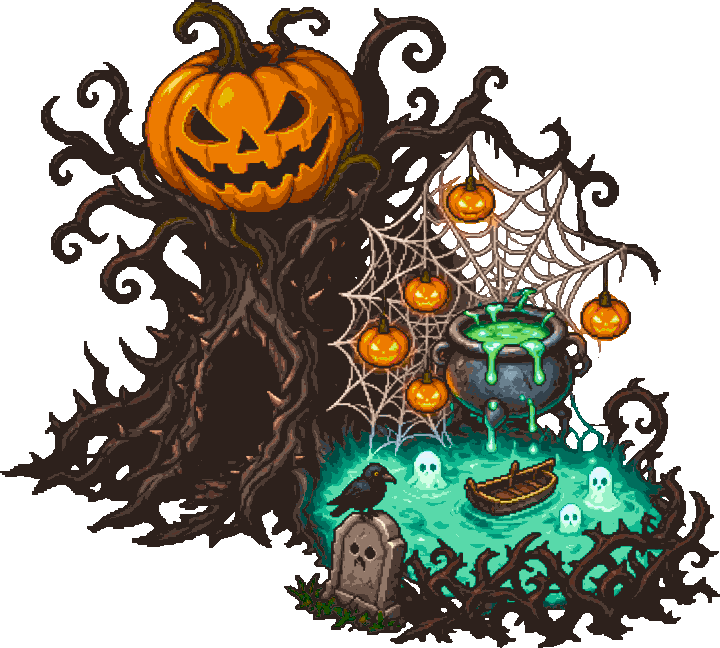
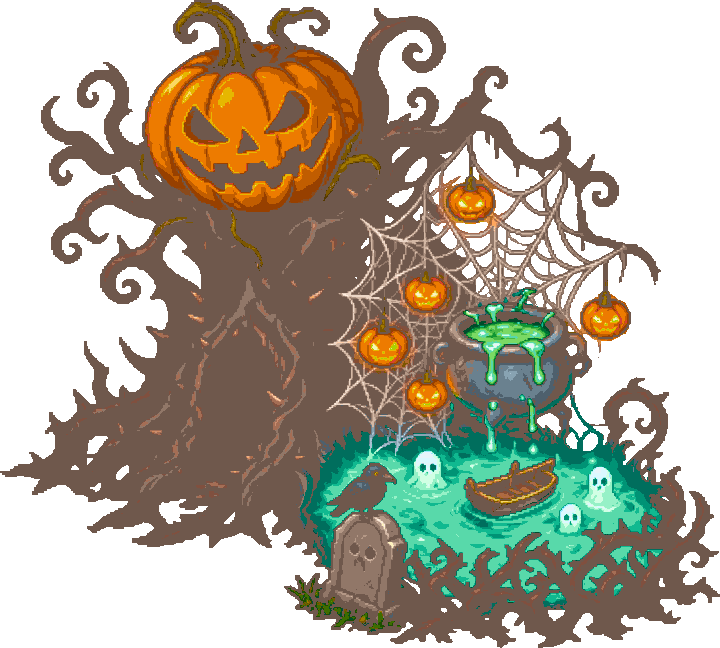
Game build 19: night mode off, props blend into the painted scene
- Time of day is fixed to daytime on the farm, kitchen and diner (todPhase returns 'day').
- Props (scarecrow, house, fountain, mailbox) get a scene grade: colors darker than mid
  lightness are lifted and pulled toward warm brown, so a dark AI asset no longer reads
  as a black cutout on the bright painting. Same numbers in tools/scene_grade.py and the
  in-game upload pipeline (sceneGradeData); the two built-in prop skins are regraded.
- Each prop gets a soft contact shadow sized from the opaque width of its bottom 20%.
- ART.md: measured why the Halloween house stood out, plus rules for future props.

Claude-Session: https://claude.ai/code/session_01BeUTwmxL2Vao9DPVP1E5Mn

diff --git a/game/index.html b/game/index.html
@@ -1255,7 +1255,8 @@ const DD = { t: .5, tt: .5, face: 1, hop: 0, next: 0 };
 const HEN = { x: 48, y: 151, dir: -1, wait: 0 };   // 母鸡在菜地左下的草地上走，窝在旁边；y 是脚底
 const PT = [];
 let farmCv, sel = -1, selT = 0, TAPLBL = null, CHAT = null, chatNext = 0;
-function todPhase(d = new Date()) { const h = d.getHours() + d.getMinutes() / 60; return h < 5 || h >= 20 ? 'night' : h < 7 ? 'dawn' : h < 17 ? 'day' : 'dusk'; }
+// 夜晚模式已关掉（不要晚上变暗）：农场、厨房、小馆永远按白天画
+function todPhase() { return 'day'; }
 const SKY = { day: [PAL.s2, PAL.s1, PAL.s0], dawn: [PAL.s3, PAL.p0, PAL.y0], dusk: [PAL.p2, PAL.r0, PAL.y2], night: [PAL.n7, PAL.n6, PAL.s5] };
 const NIGHT_TINT = { night: 'rgba(32,25,79,.5)', dusk: 'rgba(75,43,117,.2)', dawn: 'rgba(0,102,138,.16)' };   // 色卡：蓝-1、紫-2、天蓝-3
 const pathAt = t => [60 + t * 125, 167 + Math.sin(t * Math.PI * 2) * 2];   // 豆豆在菜地下面的沙土路上走来走去
@@ -1373,6 +1374,27 @@ function hdOutline(c, diag = false) {
   }
   palSnapData(d);
   g.putImageData(im, 0, 0); return c;
+}
+// 物件融进场景（和 tools/scene_grade.py 同一组数字，两边一起改）：底图最暗也只是中等亮度，物件的大片暗部和黑描边会像剪影，
+// 所以比 pivot 暗的颜色往上提、往暖棕色靠，越暗提得越多，亮部基本不动
+const SG = { pivot: .62, lift: .5, tint: .45, chroma: 1.15, a: .035, b: .06 };
+function sceneGradeData(d) {
+  const memo = new Map(), lin = v => (v /= 255) <= .04045 ? v / 12.92 : ((v + .055) / 1.055) ** 2.4, enc = v => Math.round(255 * Math.min(1, Math.max(0, v <= .0031308 ? v * 12.92 : 1.055 * v ** (1 / 2.4) - .055)));
+  for (let i = 0; i < d.length; i += 4) {
+    if (!d[i + 3]) continue;
+    const key = (d[i] << 16) | (d[i + 1] << 8) | d[i + 2]; let o = memo.get(key);
+    if (!o) {
+      const r = lin(d[i]), g = lin(d[i + 1]), b = lin(d[i + 2]);
+      const l = Math.cbrt(.4122214708 * r + .5363325363 * g + .0514459929 * b), m = Math.cbrt(.2119034982 * r + .6806995451 * g + .1073969566 * b), s = Math.cbrt(.0883024619 * r + .2817188376 * g + .6299787005 * b);
+      let L = .2104542553 * l + .7936177850 * m - .0040720468 * s, A = 1.9779984951 * l - 2.4285922050 * m + .4505937099 * s, B = .0259040371 * l + .7827717662 * m - .8086757660 * s;
+      const dk = Math.max(0, SG.pivot - L), w = dk / SG.pivot * SG.tint;
+      L += SG.lift * dk; A *= SG.chroma; B *= SG.chroma; A += (SG.a - A) * w; B += (SG.b - B) * w;
+      const l2 = (L + .3963377774 * A + .2158037573 * B) ** 3, m2 = (L - .1055613458 * A - .0638541728 * B) ** 3, s2 = (L - .0894841775 * A - 1.2914855480 * B) ** 3;
+      o = [enc(4.0767416621 * l2 - 3.3077115913 * m2 + .2309699292 * s2), enc(-1.2684380046 * l2 + 2.6097574011 * m2 - .3413193965 * s2), enc(-.0041960863 * l2 - .7034186147 * m2 + 1.7076147010 * s2)];
+      memo.set(key, o);
+    }
+    d[i] = o[0]; d[i + 1] = o[1]; d[i + 2] = o[2];
+  }
 }
 // 整张图吸附到色卡（高清精灵的最后一步：受光背光、放大插出来的颜色都收回色卡里）
 const PSNAP = new Map(), PAL_RGB = PALETTE.map(hexRGB);
@@ -1558,7 +1580,7 @@ function cropArtKey(id) {
   const sk = skinOn('crop:' + id); if (sk && FS.textures.exists(skinKey(sk))) return skinKey(sk);
   return CROPS[id].art && FS.textures.exists('art:' + id) ? 'art:' + id : null;
 }
-// 画面顺序：底图 → 开垦的地 → 阴影 → 物件、作物、母鸡（按脚底 y 排前后）→ 特效 → 夜色 → 灯光、豆豆 → 气泡名牌 → 拖动箭头
+// 画面顺序：底图 → 开垦的地 → 阴影 → 物件、作物、母鸡（按脚底 y 排前后）→ 特效 → 豆豆 → 气泡名牌 → 拖动箭头（夜晚模式已关掉）
 function farmSync(t) {
   if (!S) return;
   const W = FARM.w, ox = FARM.ox, ph = todPhase(new Date()), night = ph === 'night' || ph === 'dusk', now = performance.now();
@@ -1592,7 +1614,9 @@ function farmSync(t) {
   // 装扮物件（稻草人、房子……）
   SKIN_SLOTS.forEach(sl => {
     if (sl.kind !== 'prop') return; const id = skinOn(sl.id); if (!id || !FS.textures.exists(skinKey(id))) return;
-    const q = skinPlace(sl, id); FP.img(skinKey(id)).setOrigin(.5, 1).setPosition(q.x, q.y).setScale(q.k / IMG_PX).setDepth(DEPTH.world + q.y);
+    const q = skinPlace(sl, id), w = SKIN_IMG[id].naturalWidth / IMG_PX * q.k, [fc, fw] = skinFoot(id), rx = Math.max(2, fw * w * .5), cx = q.x - w / 2 + fc * w;
+    for (const [k, al] of [[1.2, .08], [1, .1], [.75, .1]]) gs.fillStyle(0x2d211c, al).fillEllipse(cx, q.y - rx * .08, rx * 2 * k, rx * .36 * k);   // 脚底的软影子：三层叠出虚边，物件才「站」在地上
+    FP.img(skinKey(id)).setOrigin(.5, 1).setPosition(q.x, q.y).setScale(q.k / IMG_PX).setDepth(DEPTH.world + q.y);
     if (FARM.adjust && FARM.adjust.slot === sl.id) { const b = skinBounds(sl, id); if (b) gx.lineStyle(1, 0xfad864, .5 + .4 * Math.sin(t / 200)).strokeRect(b.x, b.y, b.w, b.h); }
   });
   // 鸡窝、鸡蛋、母鸡
@@ -1681,8 +1705,8 @@ const SKIN_SLOTS = [
 ];
 // 自带的装扮（art/skins/，用 tools/skin_prep.py 处理过）；上传的装扮也加进这个表（up: true）
 const SKINS = [
-  { id: 'xmas', slot: 'scarecrow', zh: '圣诞稻草人', src: 'art/skins/scarecrow-xmas.png' },
-  { id: 'halloween', slot: 'house', zh: '万圣节树屋', src: 'art/skins/house-halloween.png' },
+  { id: 'xmas', slot: 'scarecrow', zh: '圣诞稻草人', src: 'art/skins/scarecrow-xmas.png', foot: [.529, .558] },
+  { id: 'halloween', slot: 'house', zh: '万圣节树屋', src: 'art/skins/house-halloween.png', foot: [.56, .878] },
   { id: 'spirit', slot: 'crop:pumpkin', zh: '南瓜精灵', src: 'art/skins/crop-pumpkin-spirit.png' },
 ];
 const SKIN_IMG = {};
@@ -1694,13 +1718,25 @@ const skinOn = slot => { const id = S && S.cfg.skins && S.cfg.skins[slot]; if (i
 function skinPlace(sl, id) { const p = (S.cfg.skinPos && S.cfg.skinPos[id]) || {}; return { x: (sl.anchor[0] + (p.dx || 0)) / IMG_PX, y: (sl.anchor[1] + (p.dy || 0)) / IMG_PX, k: p.s || 1 }; }
 // 点到的是不是装扮图里不透明的地方（透明的空隙点下去，算点到后面的东西）；读不了像素时（本地文件打开）按整个方框算
 const SKIN_ALPHA = {};
-function skinHit(id, u, v) {
+function skinAlpha(id) {
   const img = SKIN_IMG[id]; let a = SKIN_ALPHA[id];
   if (a === undefined) { try { const [c, g] = mk(img.naturalWidth, img.naturalHeight); g.drawImage(img, 0, 0); a = { w: c.width, h: c.height, d: g.getImageData(0, 0, c.width, c.height).data }; } catch (e) { a = null; } SKIN_ALPHA[id] = a; }
+  return a;
+}
+function skinHit(id, u, v) {
+  const a = skinAlpha(id);
   if (!a) return true;
   const x = Math.min(a.w - 1, Math.max(0, u * a.w | 0)), y = Math.min(a.h - 1, Math.max(0, v * a.h | 0));
   for (let dy = -6; dy <= 6; dy += 3) for (let dx = -6; dx <= 6; dx += 3) { const xx = x + dx, yy = y + dy; if (xx >= 0 && yy >= 0 && xx < a.w && yy < a.h && a.d[(yy * a.w + xx) * 4 + 3] > 0) return true; }   // 手指不准，周围几个像素也算
   return false;
+}
+// 脚底影子画多宽：图最下面 20% 里不透明的范围 [中心, 宽度]（占图宽的比例）；读不了像素时用 SKINS 里写好的
+const SKIN_FOOT = {};
+function skinFoot(id) {
+  if (SKIN_FOOT[id]) return SKIN_FOOT[id];
+  const a = skinAlpha(id), s = SKINS.find(x => x.id === id); let f = (s && s.foot) || [.5, .5];
+  if (a) { let x0 = a.w, x1 = -1; for (let y = Math.floor(a.h * .8); y < a.h; y++) for (let x = 0; x < a.w; x++) if (a.d[(y * a.w + x) * 4 + 3]) { if (x < x0) x0 = x; if (x > x1) x1 = x; } if (x1 >= 0) f = [(x0 + x1) / 2 / a.w, (x1 - x0) / a.w]; }
+  return SKIN_FOOT[id] = f;
 }
 function skinBounds(sl, id) { const img = SKIN_IMG[id]; if (!img || !img.naturalWidth) return null; const q = skinPlace(sl, id), w = img.naturalWidth / IMG_PX * q.k, h = img.naturalHeight / IMG_PX * q.k; return { x: q.x - w / 2, y: q.y - h, w, h, cx: q.x, top: q.y - h }; }
 const skinSrc = slot => { const id = skinOn(slot), s = id && SKINS.find(x => x.id === id); return s ? s.src || s.data : null; };
@@ -1714,7 +1750,7 @@ async function initSkins() {
   SKINS.forEach(loadSkinImg);
   (await skinDbAll()).forEach(r => { if (!SKINS.some(s => s.id === r.id)) { const s = { ...r, up: true }; SKINS.push(s); loadSkinImg(s); } });
 }
-// 上传的图片自动处理：没有透明背景就去掉四周的白底 → 去掉半透明淡雾 → 裁掉空白 → 按装扮位大小等比缩小 → 按色卡校色
+// 上传的图片自动处理：没有透明背景就去掉四周的白底 → 去掉半透明淡雾 → 裁掉空白 → 按装扮位大小等比缩小 →（物件）融进场景 → 按色卡校色
 async function processSkin(file, slot) {
   const url = URL.createObjectURL(file);
   try {
@@ -1737,6 +1773,7 @@ async function processSkin(file, slot) {
     while (sw / 2 >= tw) { const [c2, g2] = mk(Math.ceil(sw / 2), Math.ceil(sh / 2)); g2.imageSmoothingEnabled = true; g2.imageSmoothingQuality = 'high'; g2.drawImage(src, sx, sy, sw, sh, 0, 0, c2.width, c2.height); src = c2; sx = sy = 0; sw = c2.width; sh = c2.height; }   // 一次缩一半，缩小不糊
     const [out, go] = mk(tw, th); go.imageSmoothingEnabled = true; go.imageSmoothingQuality = 'high'; go.drawImage(src, sx, sy, sw, sh, 0, 0, tw, th);
     const od = go.getImageData(0, 0, tw, th); for (let i = 3; i < od.data.length; i += 4) od.data[i] = od.data[i] < 128 ? 0 : 255;
+    if (sl.kind === 'prop') sceneGradeData(od.data);   // 物件融进场景；作物不做
     palSnapData(od.data); go.putImageData(od, 0, 0);
     return out.toDataURL('image/png');
   } finally { URL.revokeObjectURL(url); }
@@ -2457,7 +2494,7 @@ function openSettings() {
 // ================= 版本、更新、存档码 =================
 // 每次发布把 BUILD 加一，同时改 game/version.json。打开游戏时去 GitHub 看最新版本号，有新的就问要不要更新；
 // 进度存在本机浏览器里，更新只换游戏本身，进度、金币、单词成绩都保留。
-const BUILD = 18, BUILD_DATE = '2026-10-31';
+const BUILD = 19, BUILD_DATE = '2026-10-31';
 const REPO = 'a01022971718-cyber/mv', BRANCH = 'ccr-17470247-hlo7zp';
 async function latestBuild() {
   // 先问 GitHub API（没有 CDN 缓存），连不上再试 raw.githubusercontent

diff --git a/game/sw.js b/game/sw.js
@@ -1,6 +1,6 @@
 // 离线缓存：第一次联网打开后，游戏本体、发音包、识别程序都存进手机；之后断网也能打开。
 // 识别模型（.tar.gz）由识别库自己存进 IndexedDB，这里不经手。
-const V = 'doudou-v18';
+const V = 'doudou-v19';
 const CORE = ['./index.html', './voice.js', './vendor/vosk.js', './vendor/phaser.min.js', './art/skins/scarecrow-xmas.png', './art/skins/house-halloween.png', './art/skins/crop-pumpkin-spirit.png', './art/farm.webp', './art/farm-open.webp', './art/crop-sprout.png', './art/crop-bluebell.png'];
 // 图标和清单在有的托管服务上会被重定向，缓存失败也不影响离线游玩
 const EXTRA = ['./manifest.json', './icon-192.png', './icon-512.png'];

diff --git a/game/tools/skin_prep.py b/game/tools/skin_prep.py
@@ -1,11 +1,12 @@
 """把一张装扮素材处理成游戏用的样子（和游戏里「上传装扮」做的事一样）：
-去掉 AI 去背景留下的半透明淡雾 → 裁掉四周空白 → 按装扮位的大小等比缩小 → 再收一次边 → 按色卡校色。
-用法：python3 game/tools/skin_prep.py 原图.png 输出.png 最大宽 最大高   （宽高是农场原画的像素，见 index.html 的 SKIN_SLOTS）
+去掉 AI 去背景留下的半透明淡雾 → 裁掉四周空白 → 按装扮位的大小等比缩小 → 再收一次边 →（物件）融进场景 → 按色卡校色。
+用法：python3 game/tools/skin_prep.py 原图.png 输出.png 最大宽 最大高 [prop]   （宽高是农场原画的像素，见 index.html 的 SKIN_SLOTS；
+      稻草人、房子、喷泉、信箱这类物件加 prop，会做 scene_grade.py 的暗部提亮；作物不加）
 """
 import cv2, numpy as np, sys, os
 sys.path.insert(0, os.path.dirname(os.path.abspath(__file__)))
-import palette_check
-def prep(src, dst, bw, bh):
+import palette_check, scene_grade
+def prep(src, dst, bw, bh, prop=False):
     im = cv2.imread(src, cv2.IMREAD_UNCHANGED)
     if im.shape[2] == 3: im = np.dstack([im, np.full(im.shape[:2], 255, np.uint8)])
     a = im[..., 3]; im[..., 3] = np.where(a >= 128, 255, 0)
@@ -13,6 +14,7 @@ def prep(src, dst, bw, bh):
     s = min(1, bw / im.shape[1], bh / im.shape[0])
     im = cv2.resize(im, (max(1, round(im.shape[1] * s)), max(1, round(im.shape[0] * s))), interpolation=cv2.INTER_AREA)
     im[..., 3] = np.where(im[..., 3] >= 128, 255, 0)
+    if prop: im[..., 2::-1] = np.round(scene_grade.grade(im[..., 2::-1])).astype(np.uint8)
     cv2.imwrite(dst, im)
     palette_check.main(dst, dst)
-if __name__ == '__main__': prep(sys.argv[1], sys.argv[2], int(sys.argv[3]), int(sys.argv[4]))
+if __name__ == '__main__': prep(sys.argv[1], sys.argv[2], int(sys.argv[3]), int(sys.argv[4]), len(sys.argv) > 5 and sys.argv[5] == 'prop')

diff --git a/game/tools/scene_grade.py b/game/tools/scene_grade.py
@@ -1,0 +1,21 @@
+"""物件融进场景：把装扮物件（稻草人、房子、喷泉、信箱）的暗部提亮、往场景的暖棕色靠，彩度略加。
+为什么要做：底图最暗的地方也只有中等亮度（OKLab L≈0.62），AI 出的物件常有大片接近黑色的暗部和黑描边，
+贴上去就像一块剪影，和画面「不是一张画」。亮部基本不动，越暗提得越多。
+游戏里「上传装扮」用的是同一组数字（index.html 的 sceneGrade），两边要一起改。
+用法：python3 game/tools/scene_grade.py 输入.png 输出.png   （一般不单独用，skin_prep.py 处理物件时会自动做）
+"""
+import numpy as np, sys, os
+sys.path.insert(0, os.path.dirname(os.path.abspath(__file__)))
+from oklab import rgb_to_oklab, oklab_to_rgb
+PIVOT, LIFT, TINT, CHROMA = .62, .5, .45, 1.15   # 比 PIVOT 暗的部分往上提 LIFT 倍的差距；越暗越往暖棕色 AT 靠
+AT = (.035, .06)                                  # 暖棕色（OKLab 的 a、b）
+def grade(rgb):
+    lab = rgb_to_oklab(np.asarray(rgb, float)); L = lab[..., 0]
+    d = np.clip(PIVOT - L, 0, None); w = d / PIVOT
+    lab[..., 0] = L + LIFT * d
+    for i, t in ((1, AT[0]), (2, AT[1])): c = lab[..., i] * CHROMA; lab[..., i] = c + (t - c) * w * TINT
+    return oklab_to_rgb(lab)
+if __name__ == '__main__':
+    import cv2
+    im = cv2.imread(sys.argv[1], cv2.IMREAD_UNCHANGED); im[..., 2::-1] = np.round(grade(im[..., 2::-1])).astype(np.uint8)
+    cv2.imwrite(sys.argv[2], im)

diff --git a/game/README.md b/game/README.md
@@ -30,7 +30,7 @@
 农场左上角的「装扮」按钮打开装扮窗口。稻草人、房子、喷泉、信箱和每种作物各有一个装扮位，点一下就换上，存档会记住。
 - **默认**：稻草人是圣诞稻草人，房子是万圣节树屋；喷泉、信箱默认空着，等上传。场景物件都可以选「不放」。
 - **自带的装扮**：圣诞稻草人、万圣节树屋、南瓜精灵（南瓜长大和成熟时的样子）。
-- **上传自己画的图**：在装扮位后面点「＋ 上传」，从手机里选一张图。游戏会自动处理：白底图去背景、去掉 AI 抠图留下的半透明淡雾、裁掉四周空白、按装扮位的大小等比缩小、按色卡校色。上传的装扮存在这台手机的浏览器里（IndexedDB），断网也能用，换手机要重新上传；点缩略图右上角的 × 删除。
+- **上传自己画的图**：在装扮位后面点「＋ 上传」，从手机里选一张图。游戏会自动处理：白底图去背景、去掉 AI 抠图留下的半透明淡雾、裁掉四周空白、按装扮位的大小等比缩小、（稻草人、房子这类物件）暗部提亮融进场景、按色卡校色。物件脚下自动加软影子。上传的装扮存在这台手机的浏览器里（IndexedDB），断网也能用，换手机要重新上传；点缩略图右上角的 × 删除。
 - **调整位置和大小**：装扮窗口里点「调整位置和大小」，回到农场用手指拖动物件，下面的按钮放大、缩小、还原，点「完成」记住（每个装扮分开记）。点物件时按图里不透明的地方判断，透明的空隙点下去算点到后面的东西。
 
 加新的装扮位：在 `index.html` 的 `SKIN_SLOTS` 里加一行（`anchor` 是脚底中点、`box` 是最大宽高，都按农场原画的像素；`def` 是默认装扮）。自带装扮放在 `art/skins/`（用 `tools/skin_prep.py` 处理），在 `SKINS` 里登记。规格见 `ART.md`。
@@ -86,7 +86,7 @@
 - **农场上叠加的东西**：底图和叠加的东西画在同一张画布上，拖动时一起移动；画布按手机的设备像素比渲染，3 倍屏上原画 1:1 显示、位置吸附到整像素，不糊不闪。开垦的地块直接取自开垦版底图；豆豆和鸡窝直接画；作物和母鸡先用 Scale2x 放大 2 倍，再自动加受光/背光、深色勾边，眼睛和果实补白色反光。为了和原画角色比例一致，作物和母鸡再放大 1.25 倍，豆豆 1.5 倍。描边一律用色卡里的暖深棕，不用纯黑。
 - **色板**：只用色卡 v2 `art/palette/`（16 组 × 8 级 = 128 色，统一明度阶 + 色相偏移，脚本里的 `PALETTE`）。代码里按名字取色的 `PAL` 指向色卡里的某一级；所有画笔函数把颜色吸附到色卡，高清叠加层最后也整张吸附一遍；描边统一用「暖灰·墨」第 1 级；界面 CSS 变量对应色卡里的界面用色（对比度都 ≥ 4.5:1）。农场底图用 `tools/grade_bg.py` 整体调亮。规矩和用法见 `ART.md`。
 - **透视与比例**：农场跟着底图的透视走，地块就是图里的草格；厨房和小馆是 2:1 等距视角。作物 28×32、豆豆连葱约 19px（逻辑像素）。光从左上来，角色、作物、道具都有接地阴影。
-- **夜晚**：农场跟着手机的真实时间变化。夜色压暗整张底图和作物；豆豆只略微变暗，状态气泡不受影响，蛋糕屋的门口和小窗会亮灯。
+- **夜晚模式已关掉**：农场、厨房、小馆永远是白天（`todPhase()` 固定返回 `day`；夜色、灯光、萤火虫的代码还在，以后想要再打开）。
 - **字体**：中文用 12px 像素字体（18px = 1.5 倍、24px = 2 倍），英文和数字用 Jersey 10（20 / 30 / 40px），两种字体都内联在页面里。
 - **触控**：所有按钮至少 44×44px；主要操作放在底部拇指区，「跳过」「以后再说」这类次要操作用文字链接。
 
@@ -102,6 +102,7 @@
 | `vendor/phaser.min.js` | Phaser 游戏引擎（第三方，MIT） |
 | `art/skins/`、`art/src/skins/` | 自带的装扮（处理过的，和原图） |
 | `tools/skin_prep.py` | 把一张装扮素材处理成游戏用的样子（和游戏里上传时做的一样） |
+| `tools/scene_grade.py` | 物件融进场景：暗部提亮、往暖棕色靠（和游戏里的 `sceneGradeData` 同一组数字） |
 | `sw.js`、`manifest.webmanifest`、`icon-*.png` | 离线缓存和安装到主屏幕 |
 | `vendor/fonts/` | 字体原文件和 OFL 许可证 |
 | `tools/build_fonts.py` | 把用到的字抽成子集、内联进 `index.html`（改了中文后运行） |
@@ -135,7 +136,7 @@
 
 数据都在 `index.html` 的「游戏数据」一节：`CROPS`（作物、生长秒数、收获句；带 `art` 的用 `art/` 里的图）、`RECIPES`（菜谱和每一步的英文）、`T_ORDER` / `T_REPLY` / `T_ASK` / `T_PRICE` / `T_THANKS`（小馆对话模板）。新增一步做菜时，`act` 决定厨房里播放哪个动画（wash / cut / peel / tear / scoop / mix / crack / mash / heat / fry / boil / blend / pour / season / bake / serve）。
 
-换农场底图：美术按 `ART.md` 交两张同尺寸的图（没开垦 / 全开垦），运行 `python3 game/tools/farm_plots.py 没开垦.png 全开垦.png game/art`，把打印出来的 `c`（中心）和 `q`（四个角）贴进 `PLOT_IMG`、`PLOT_QUAD`；再按新图量 `SPOTS`（可点物件）、`HOUSE_GLOW`（夜里亮灯）、`NEST`、`HEN`、豆豆的 `pathAt`。图的宽高变了还要改 `FARM.world` 和 `FARM.h`。
+换农场底图：美术按 `ART.md` 交两张同尺寸的图（没开垦 / 全开垦），运行 `python3 game/tools/farm_plots.py 没开垦.png 全开垦.png game/art`，把打印出来的 `c`（中心）和 `q`（四个角）贴进 `PLOT_IMG`、`PLOT_QUAD`；再按新图量 `SPOTS`（可点物件）、`NEST`、`HEN`、豆豆的 `pathAt`。图的宽高变了还要改 `FARM.world` 和 `FARM.h`。
 
 改了内容之后：
 - 改了中文：运行 `python3 game/tools/build_fonts.py`（需要 `pip install fonttools brotli`），新出现的字才会有像素字形。

diff --git a/game/ART.md b/game/ART.md
@@ -99,18 +99,35 @@
 5. **不要画地上的影子**，游戏会加。
 6. **画大一点没关系**（最大范围的 2 倍以上更清楚），游戏会等比缩小；但长宽比例要对。
 7. 上传以后位置差一点，在装扮窗口点「调整位置和大小」，用手指拖动、按钮放大缩小（第 18 版起有）。
+8. **整体要亮**：底图最暗的地方也只是中等亮度。物件不要有大片接近黑色的地方（树干、阴影、门洞都用中等偏深的暖棕），黑色只留给很小的点（眼睛）。
+9. **白天的样子**：农场永远是晴天白天。夜里、阴森、发光这类东西（比如万圣节树屋）放进去一定比别的东西「重」，只适合做节日限定的装扮。
+10. **细节别比底图密太多**：底图是大色块、软边；物件画得太碎（很多细线、小花纹），缩小后就是一团密密的噪点，一眼看出不是一张画。
 
-### 现在的状态（第 18 版）
+### 为什么放进去会突兀（第 19 版查出来的）
+
+第 18 版放进去的万圣节树屋和底图量出来差这么多（亮度按 0 黑 ～ 1 白）：
+
+| | 平均亮度 | 接近黑色的像素 | 细节密度 |
+|---|---|---|---|
+| 底图 | 0.84 | 0% | 1.3% |
+| 万圣节树屋（原样） | 0.41 | 51% | 20% |
+| 圣诞稻草人（原样） | 0.63 | 21% | 19% |
+
+所以树屋看起来像一块贴上去的黑剪影。第 19 版程序做了两件事：物件的暗部自动提亮、往暖棕色靠（`tools/scene_grade.py`，上传时也自动做；树屋平均亮度提到 0.54，接近黑色的像素降到 0%）；物件脚下加软影子，让它「站」在地上。剩下的差别（白天和夜里两种题材、细节密度）是画本身的事，程序修不了，按上面第 8–10 条画。
+
+### 现在的状态（第 19 版）
 
 - 底图：用美术交的干净底图（`art/src/farm-clean-ai.jpg`），`tools/bg_prepare.py` 补了右边接缝、拼了「没开垦」版、整体提亮。树、花盆这张图里也去掉了，就不要了。
-- 稻草人默认是圣诞稻草人，房子默认是万圣节树屋；喷泉、信箱空着，等上传。
+- 稻草人默认是圣诞稻草人，房子默认是万圣节树屋（都做过暗部提亮，脚下有影子）；喷泉、信箱空着，等上传。
+- 夜晚模式关掉了，永远是白天。
 - 不再需要抠「原样」：底图里已经没有原来的稻草人、蛋糕屋了，第三课取消。
 
 ### 接下来交
 
-1. **喷泉、信箱的新样子**（想好什么风格就画），按上面的表。
-2. **作物 4 个阶段**：先画番茄当样品。
-3. 想换稻草人、房子的其他样子，随时可以画，在游戏里上传就能用。
+1. **喷泉、信箱的新样子**（想好什么风格就画），按上面的表和第 8–10 条。
+2. **一个白天的房子**（建议）：树屋只在万圣节换上，平时用一个明亮的木屋或树屋，和底图更搭。
+3. **作物 4 个阶段**：先画番茄当样品。
+4. 想换稻草人、房子的其他样子，随时可以画，在游戏里上传就能用。
 
 **作业记录**：第二课交的底图，信箱、喷泉、护栏是有意去掉的（它们要做成可换的），对；树、花盆也被去掉了、整张颜色和远山被重画了，这是「整张重新生成」类工具的问题，用合成解决。
 
